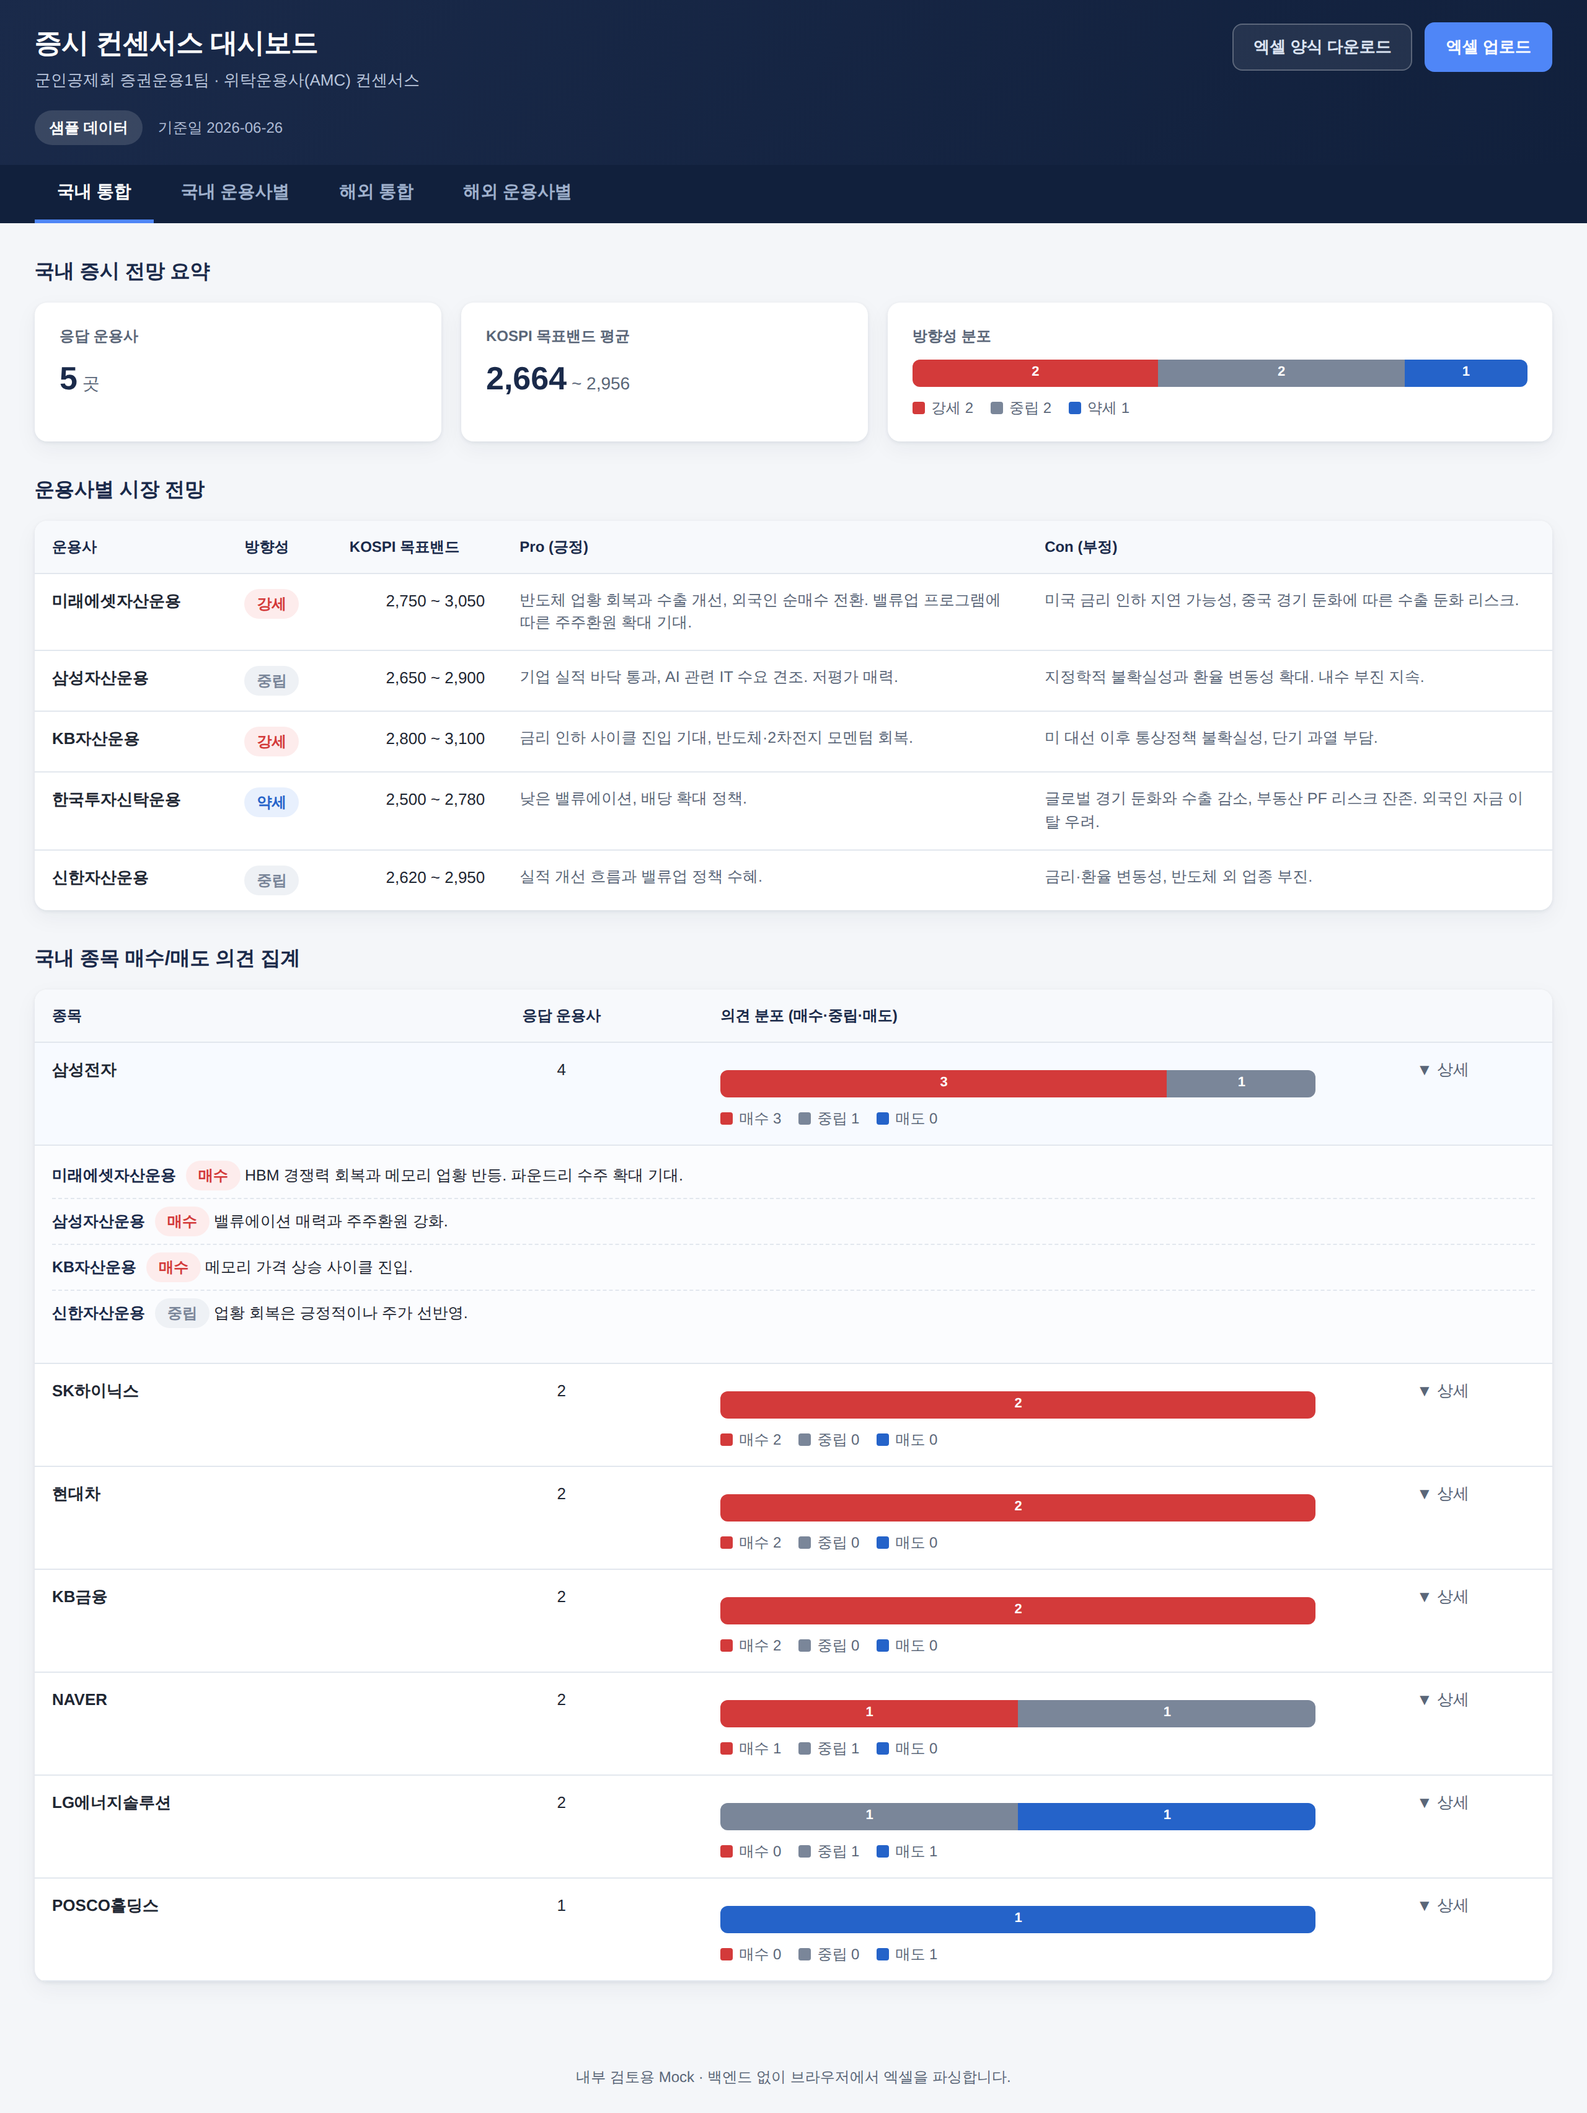
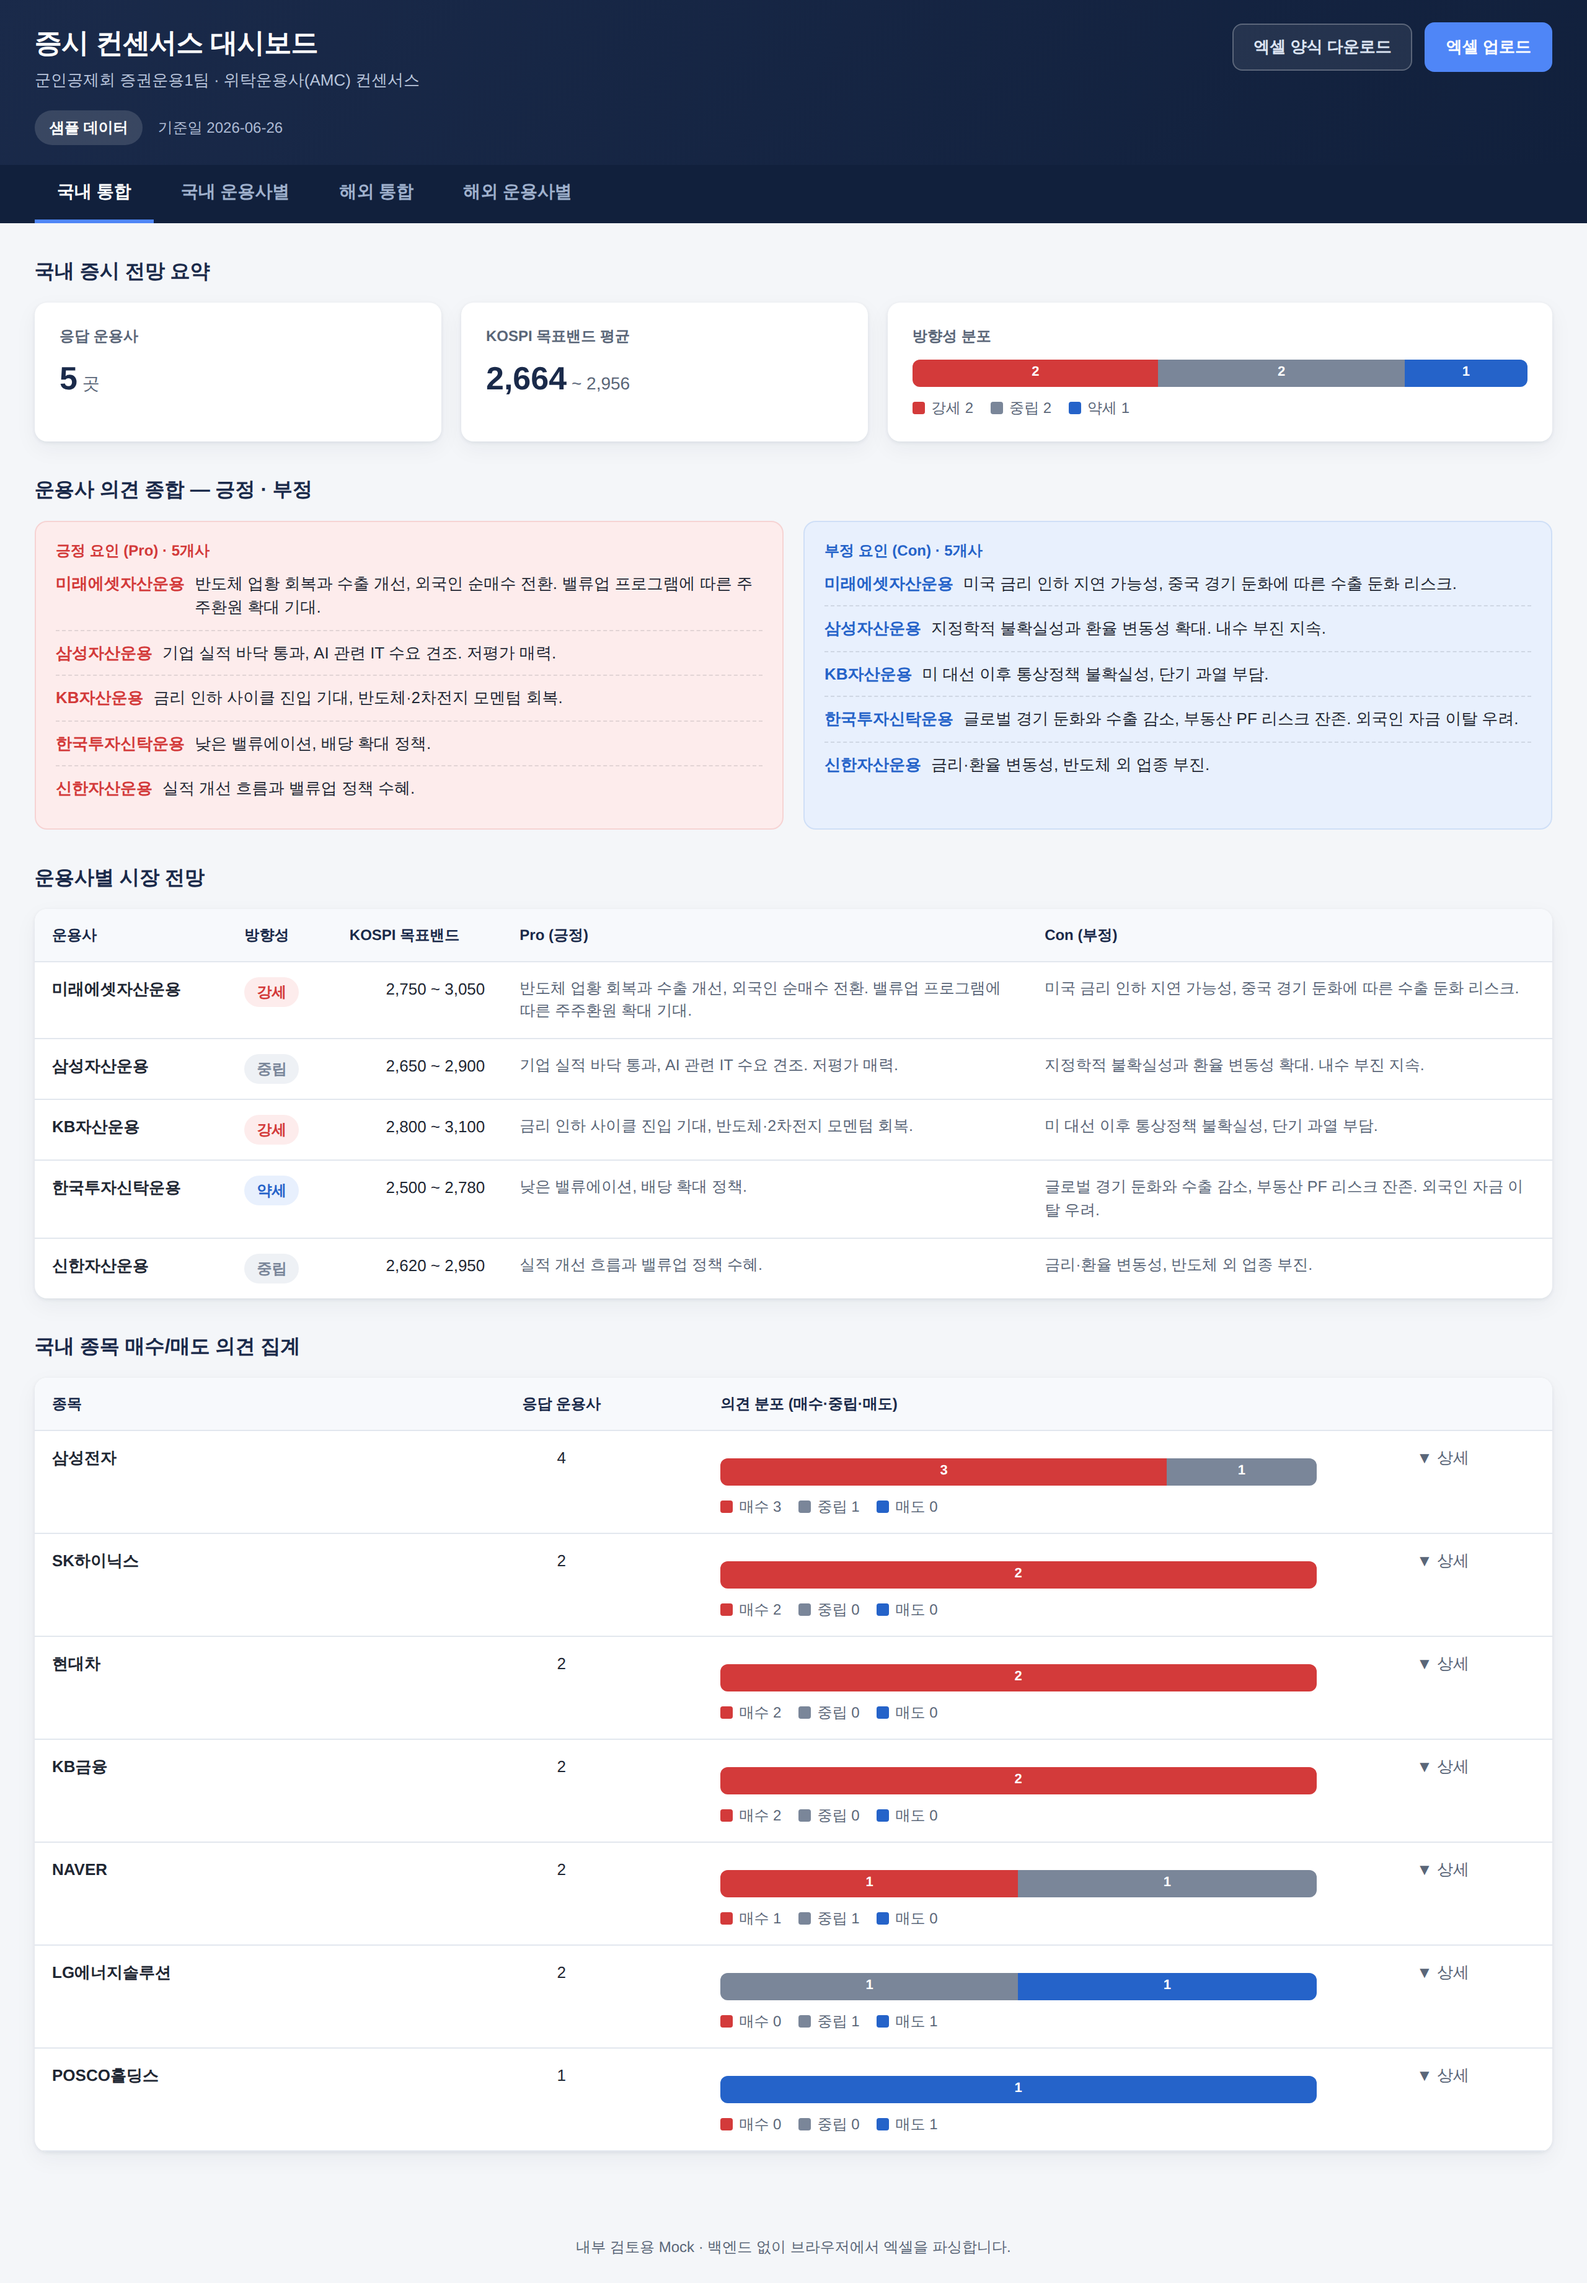
국내 통합 요약에 운용사 의견 종합(긍정·부정) 패널 추가
전 운용사의 Pro/Con 의견을 긍정 요인 / 부정 요인 두 칸으로 모아
운용사명과 함께 정리해 한눈에 비교할 수 있도록 함.

Claude-Session: https://claude.ai/code/session_01T3CGtEJa8RnDZjiXtgMDFx

diff --git a/js/app.js b/js/app.js
@@ -98,6 +98,18 @@
 
   function badge(text, cls) { return '<span class="badge ' + cls + '">' + esc(text) + '</span>'; }
 
+  // 전 운용사의 Pro/Con 의견을 모아 운용사명과 함께 목록화
+  function summaryList(rows, key) {
+    var items = rows.filter(function (r) { return r[key]; }).map(function (r) {
+      return '<li><span class="sl-amc">' + esc(r.amc) + '</span><span class="sl-text">' + esc(r[key]) + '</span></li>';
+    }).join('');
+    if (!items) return '<div class="pc-text muted">의견 없음</div>';
+    return '<ul class="summary-list">' + items + '</ul>';
+  }
+  function countWithReason(rows, key) {
+    return rows.filter(function (r) { return r[key]; }).length;
+  }
+
   // ---------- 뷰 1: 국내 통합 ----------
   function renderDomesticOverview() {
     var host = el('domestic-overview');
@@ -118,6 +130,15 @@
     html += '<div class="card summary-card" style="flex:2 1 320px"><div class="label">방향성 분포</div>' +
       distBar(counts, VIEW_KEYS, viewClass) + '</div>';
     html += '</div>';
+
+    // 운용사 의견 종합 (긍정 / 부정)
+    html += '<div class="section-title">운용사 의견 종합 — 긍정 · 부정</div>';
+    html += '<div class="procon">' +
+      '<div class="procon-box pro"><div class="pc-label">긍정 요인 (Pro) · ' +
+      countWithReason(mkt, 'pro') + '개사</div>' + summaryList(mkt, 'pro') + '</div>' +
+      '<div class="procon-box con"><div class="pc-label">부정 요인 (Con) · ' +
+      countWithReason(mkt, 'con') + '개사</div>' + summaryList(mkt, 'con') + '</div>' +
+      '</div>';
 
     // 운용사별 비교 표
     html += '<div class="section-title">운용사별 시장 전망</div>';

diff --git a/css/styles.css b/css/styles.css
@@ -175,6 +175,13 @@ select {
 .procon-box.pro .pc-label { color: var(--bull); }
 .procon-box.con .pc-label { color: var(--bear); }
 .procon-box .pc-text { font-size: 13px; color: var(--ink); }
+.summary-list { margin: 0; padding: 0; list-style: none; }
+.summary-list li { font-size: 13px; padding: 8px 0; border-top: 1px dashed rgba(31, 39, 51, 0.12); display: flex; gap: 8px; }
+.summary-list li:first-child { border-top: none; padding-top: 2px; }
+.summary-list .sl-amc { font-weight: 700; white-space: nowrap; flex: 0 0 auto; }
+.summary-list .sl-text { color: var(--ink); }
+.procon-box.pro .sl-amc { color: var(--bull); }
+.procon-box.con .sl-amc { color: var(--bear); }
 
 .market-grid { display: grid; grid-template-columns: repeat(auto-fill, minmax(320px, 1fr)); gap: 16px; }
 .market-card .mc-head { display: flex; align-items: center; justify-content: space-between; gap: 8px; margin-bottom: 4px; }
